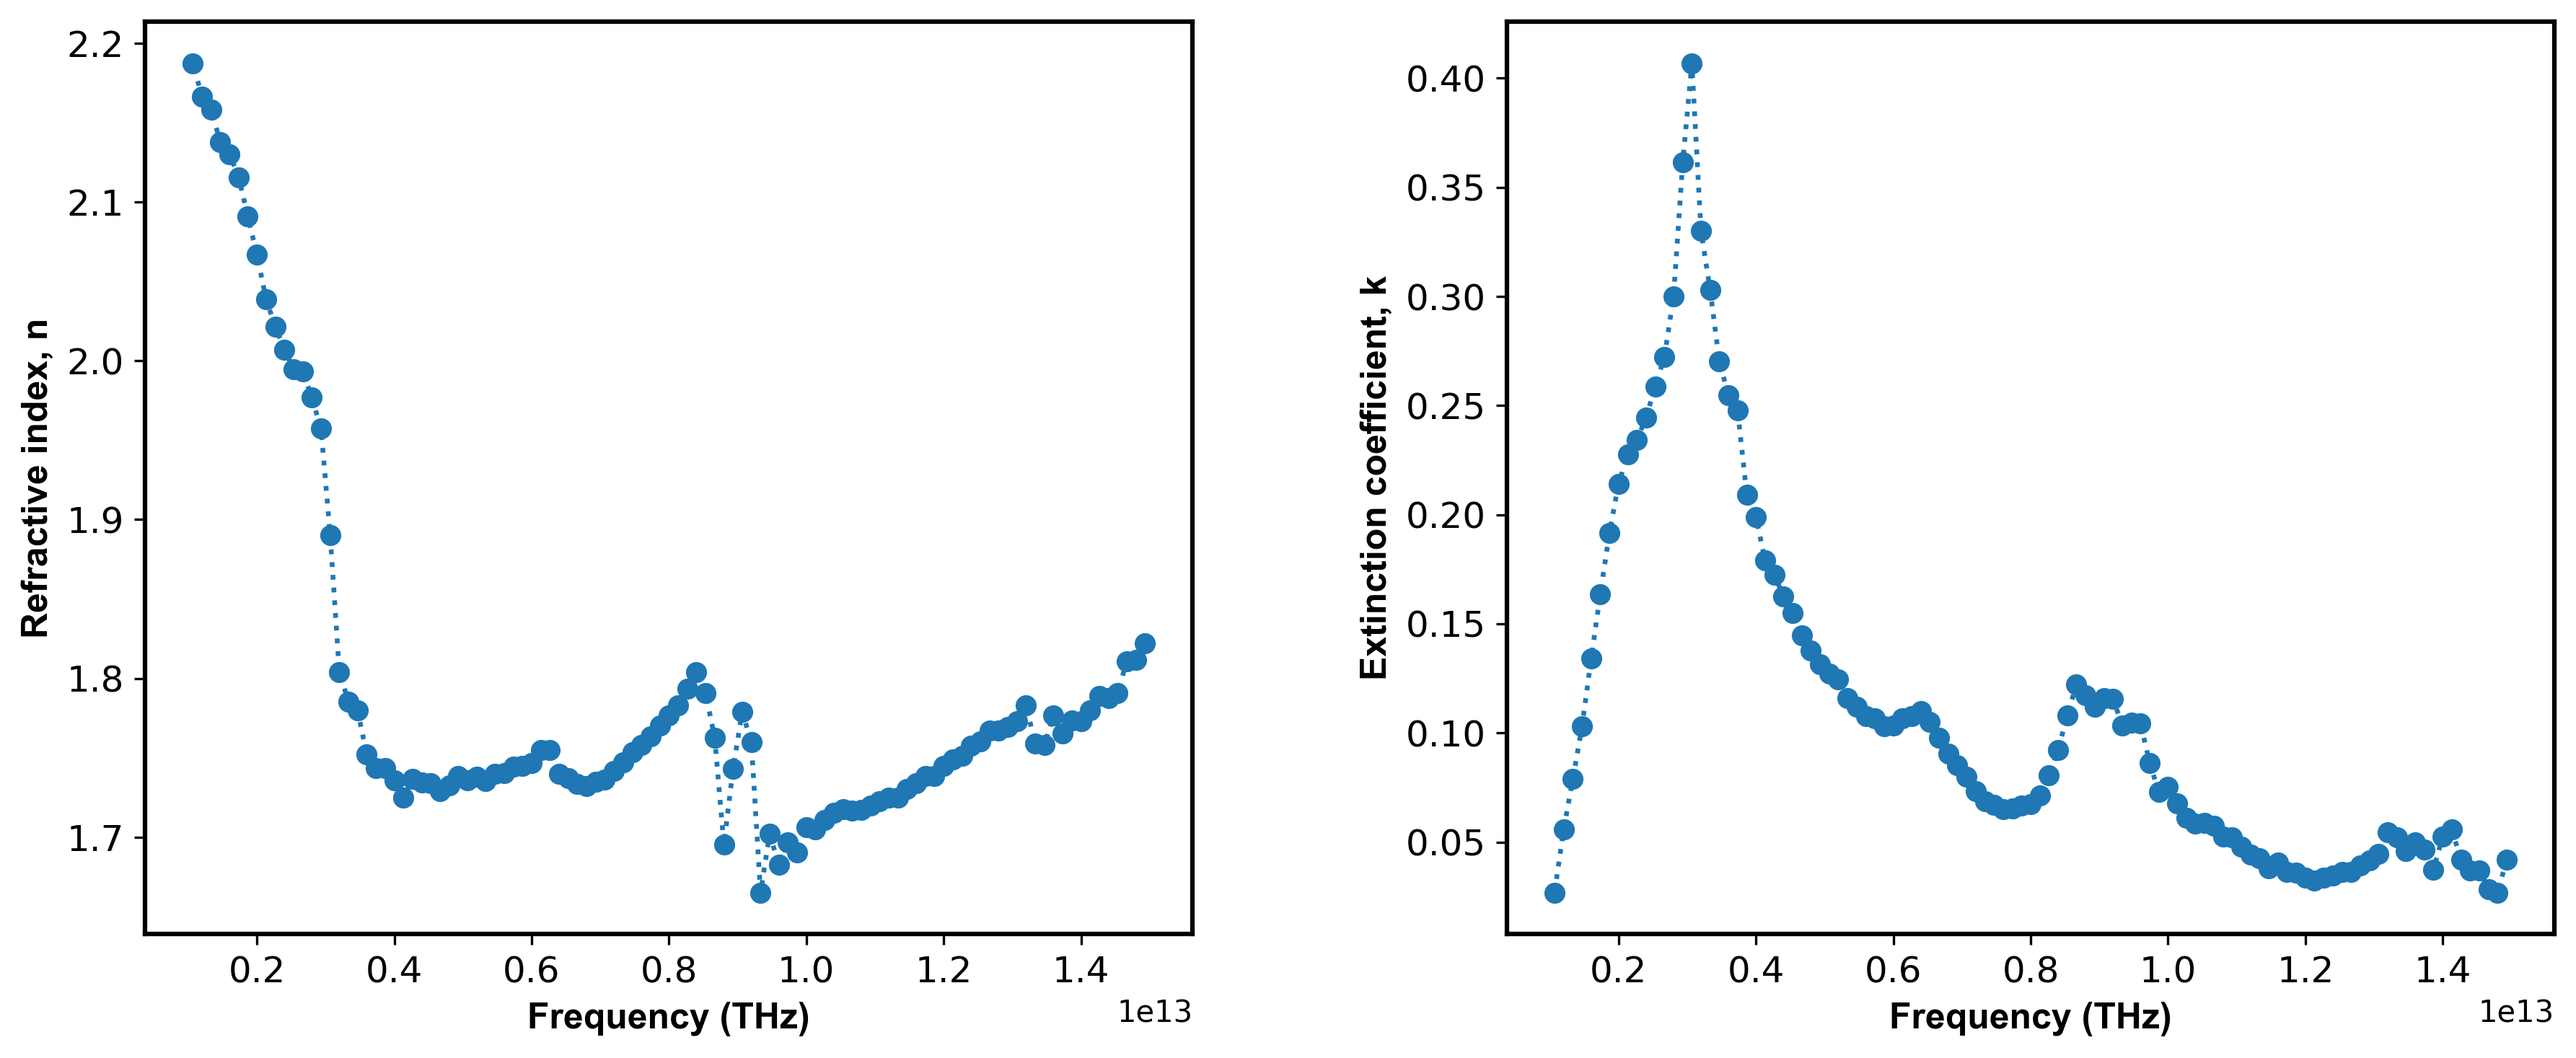
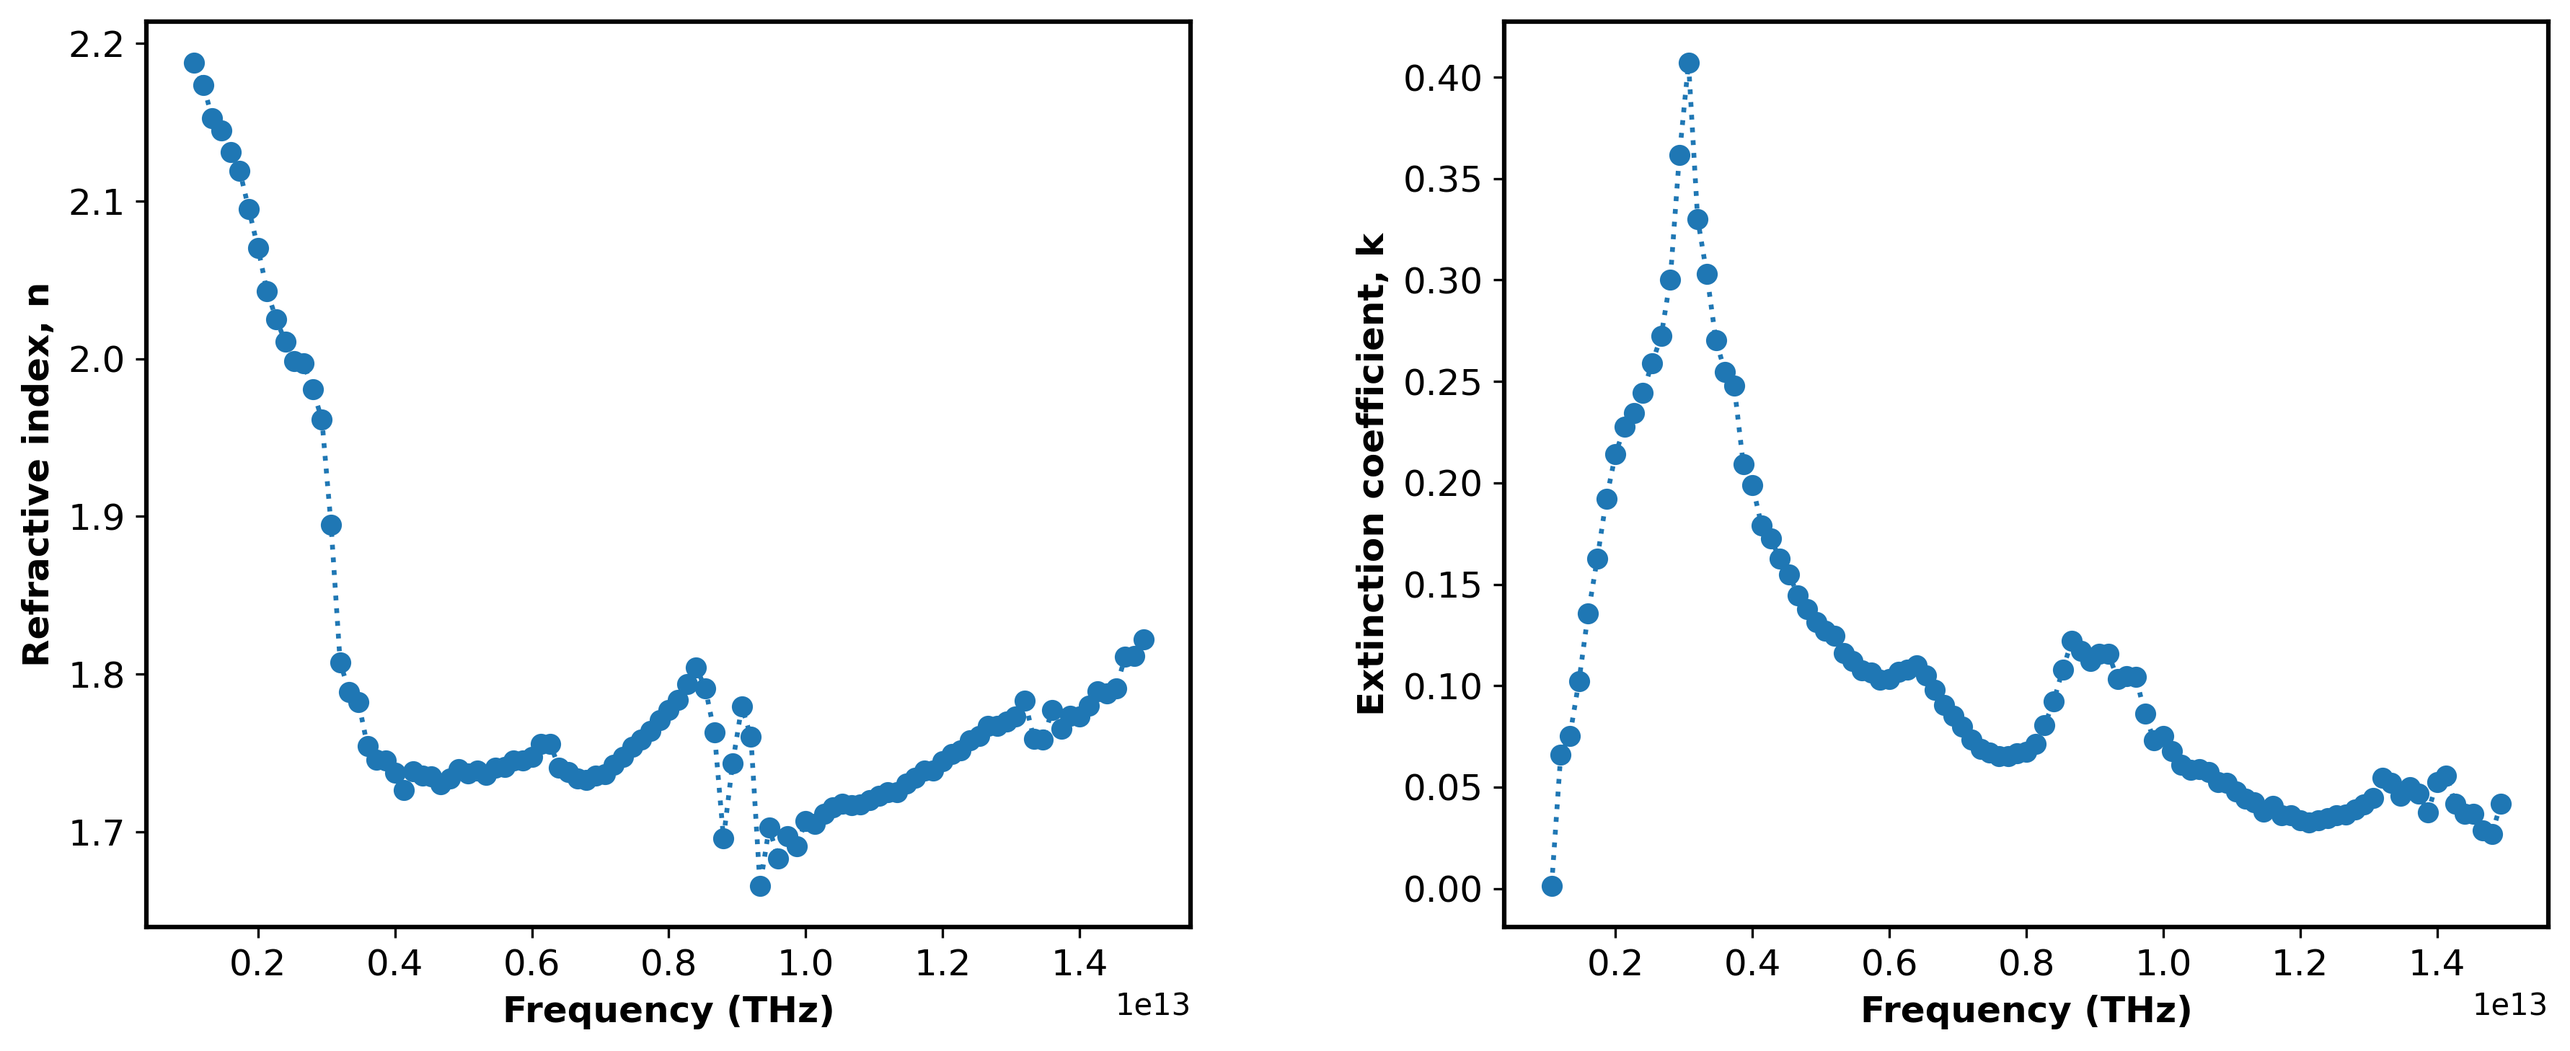
new results

diff --git a/main2.py b/main2.py
@@ -263,11 +263,11 @@ def MTMM(d:npt.NDArray,
 
 def main(sample_name:str,pop_size:int = 2,maxit:int = 1000):
     # === Structural Info ===
-    reference:npt.NDArray[np.floating] = np.loadtxt(rf'Data\{sample_name}_Reference.txt')
-    sample:npt.NDArray[np.floating]  = np.loadtxt(rf'Data\{sample_name}_Sample.txt')
+    reference:npt.NDArray[np.floating] = np.loadtxt(rf'Data/{sample_name}_Reference.txt')
+    sample:npt.NDArray[np.floating]  = np.loadtxt(rf'Data/{sample_name}_Sample.txt')
     c:float = 299792458#speed of light
 
-    with open(fr'Data\{sample_name}.json', 'r') as file:
+    with open(fr'Data/{sample_name}.json', 'r') as file:
         data:dict = json.load(file)
 
     nr:float = float(data["settings"]["calibration_index"])
@@ -356,10 +356,12 @@ def main(sample_name:str,pop_size:int = 2,maxit:int = 1000):
         maxiter=maxit,
         popsize=pop_size,
         x0=initial_pop,
+        tol=0.0001,
         polish=False,
         disp=True,
-        workers=1,
+        workers=-1,
     )
+    print(result.message)
     d0_opt = result.x
     plot_opts = {'linestyle': ':', 'marker': 'o', 'linewidth': 1.6}
     n=d0_opt[:l]
@@ -406,8 +408,8 @@ def main(sample_name:str,pop_size:int = 2,maxit:int = 1000):
 
 
 if __name__ == '__main__':
-    main(sample_name='CF',
-        pop_size=2,
-        maxit=2000)
+    main(sample_name='PA6',
+        pop_size=1,
+        maxit=10000)
 #TODO: do PA6
 
